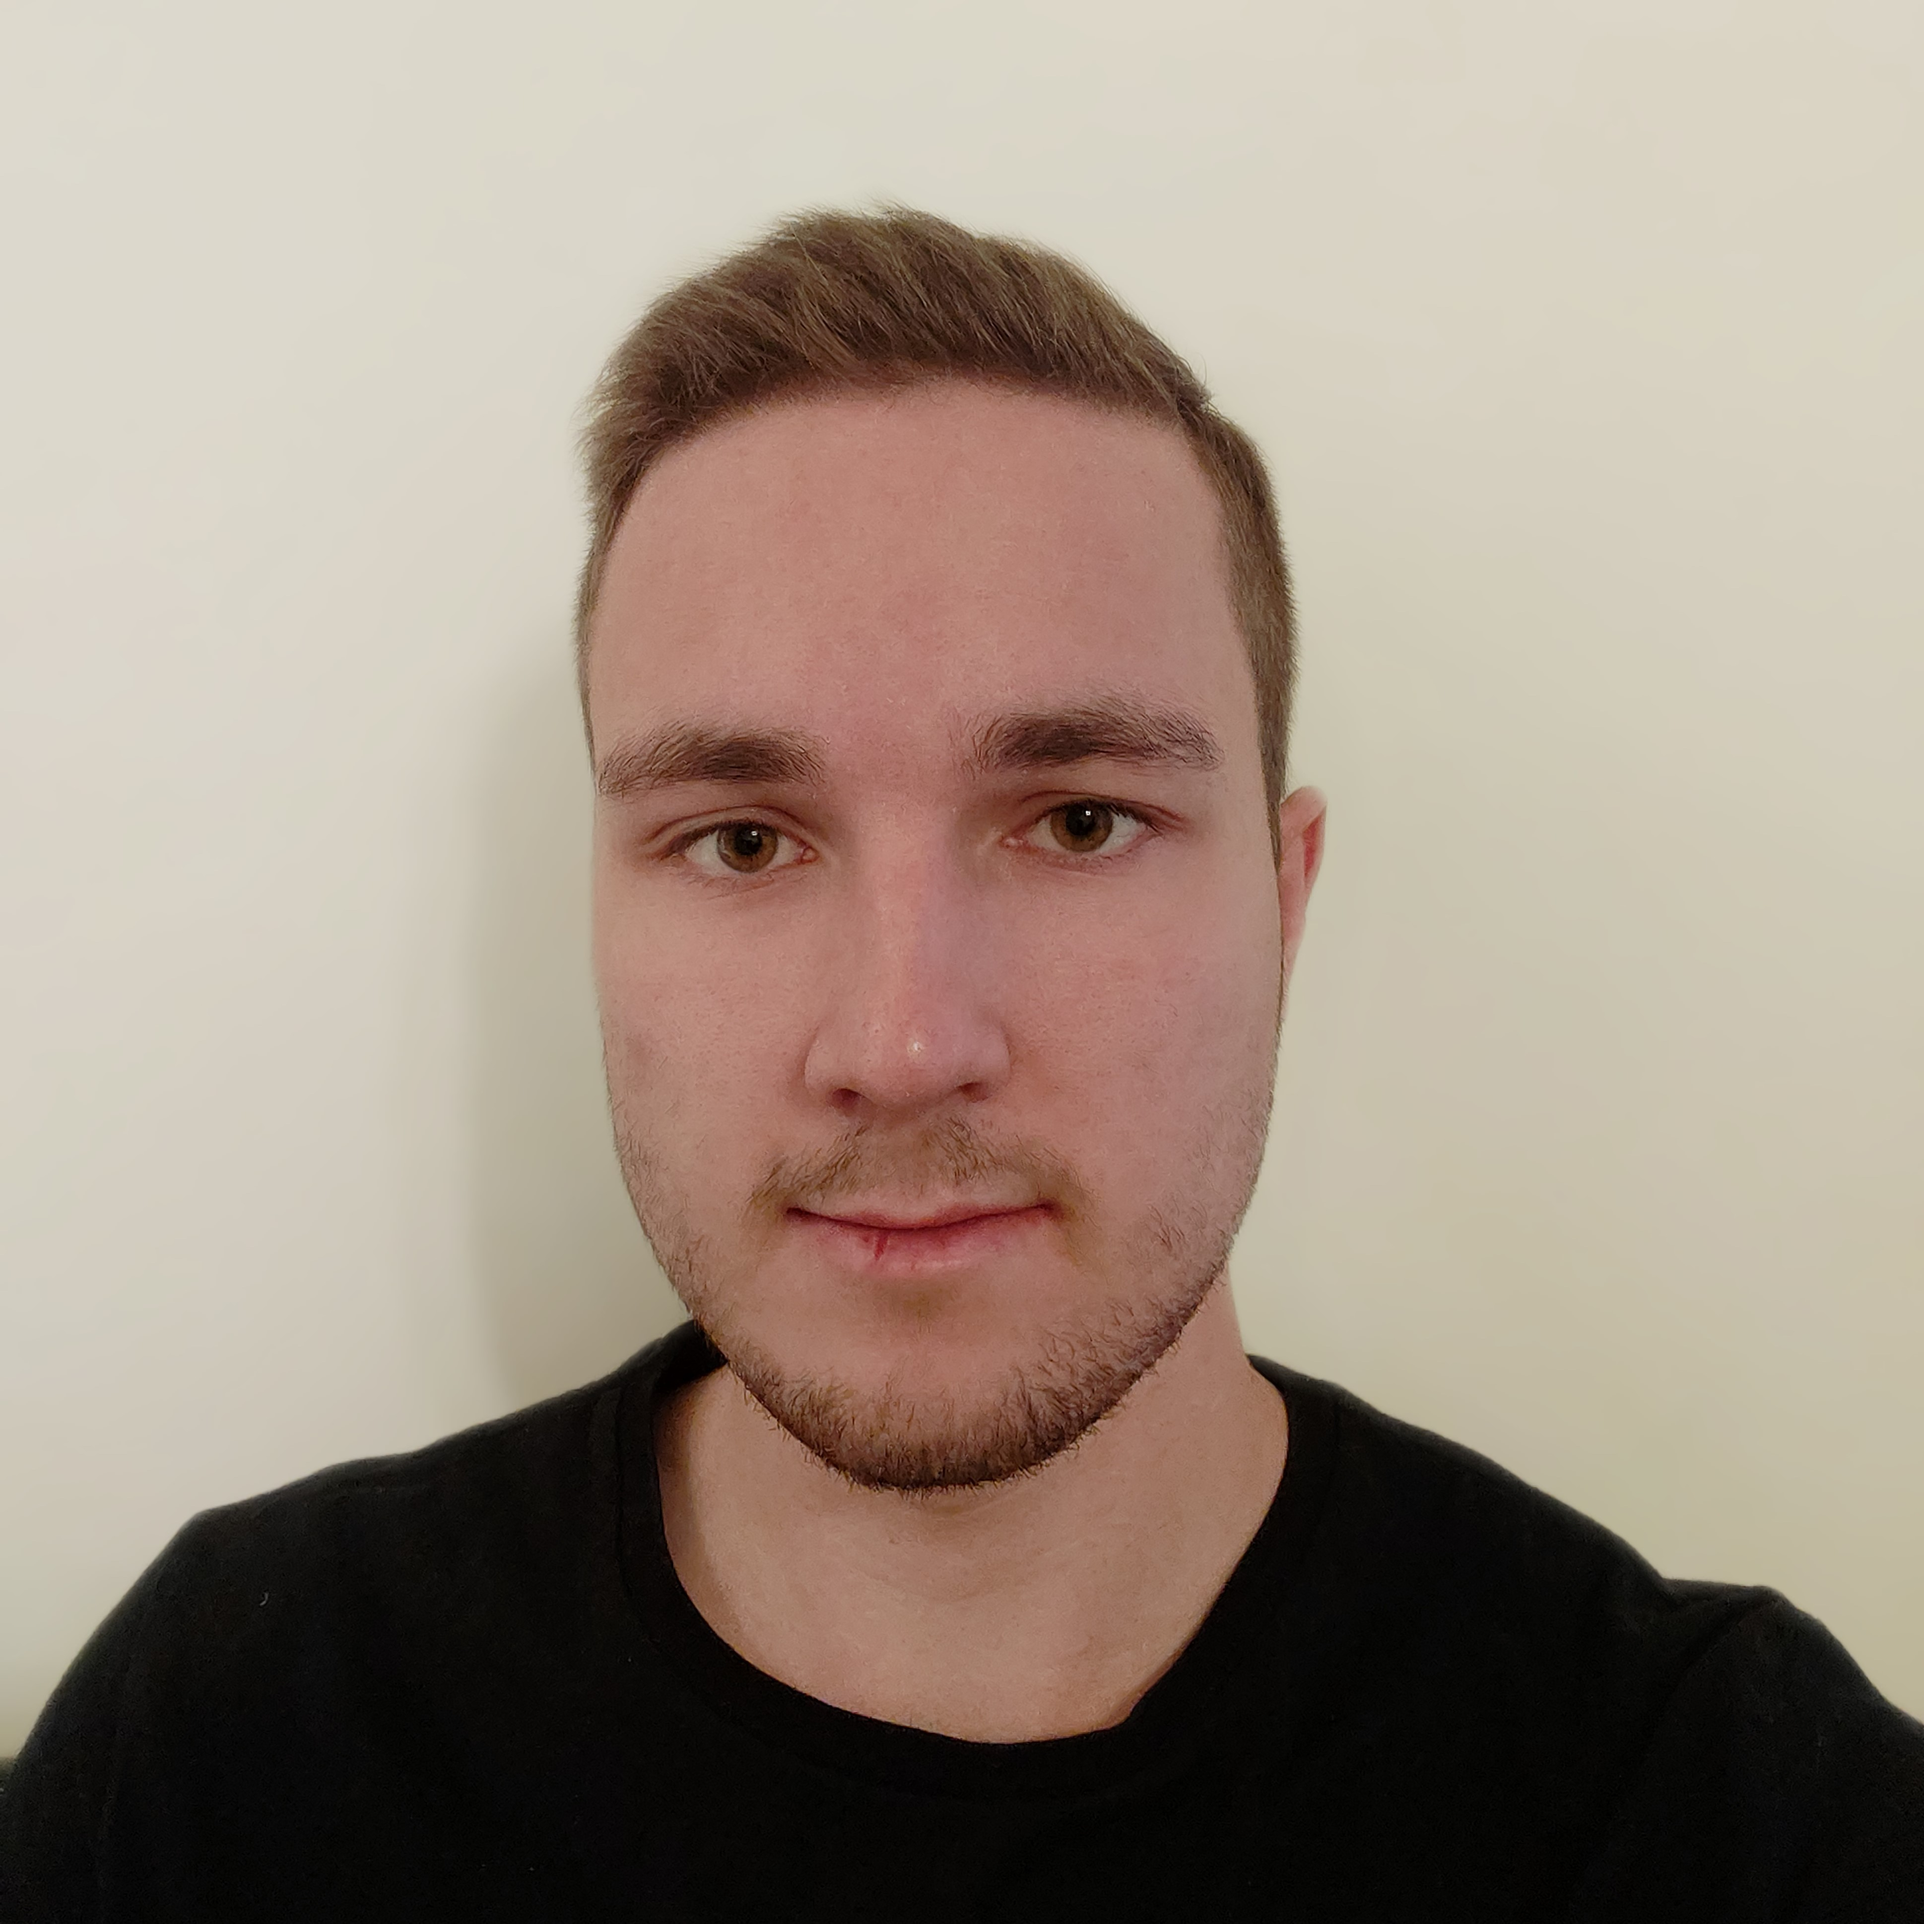
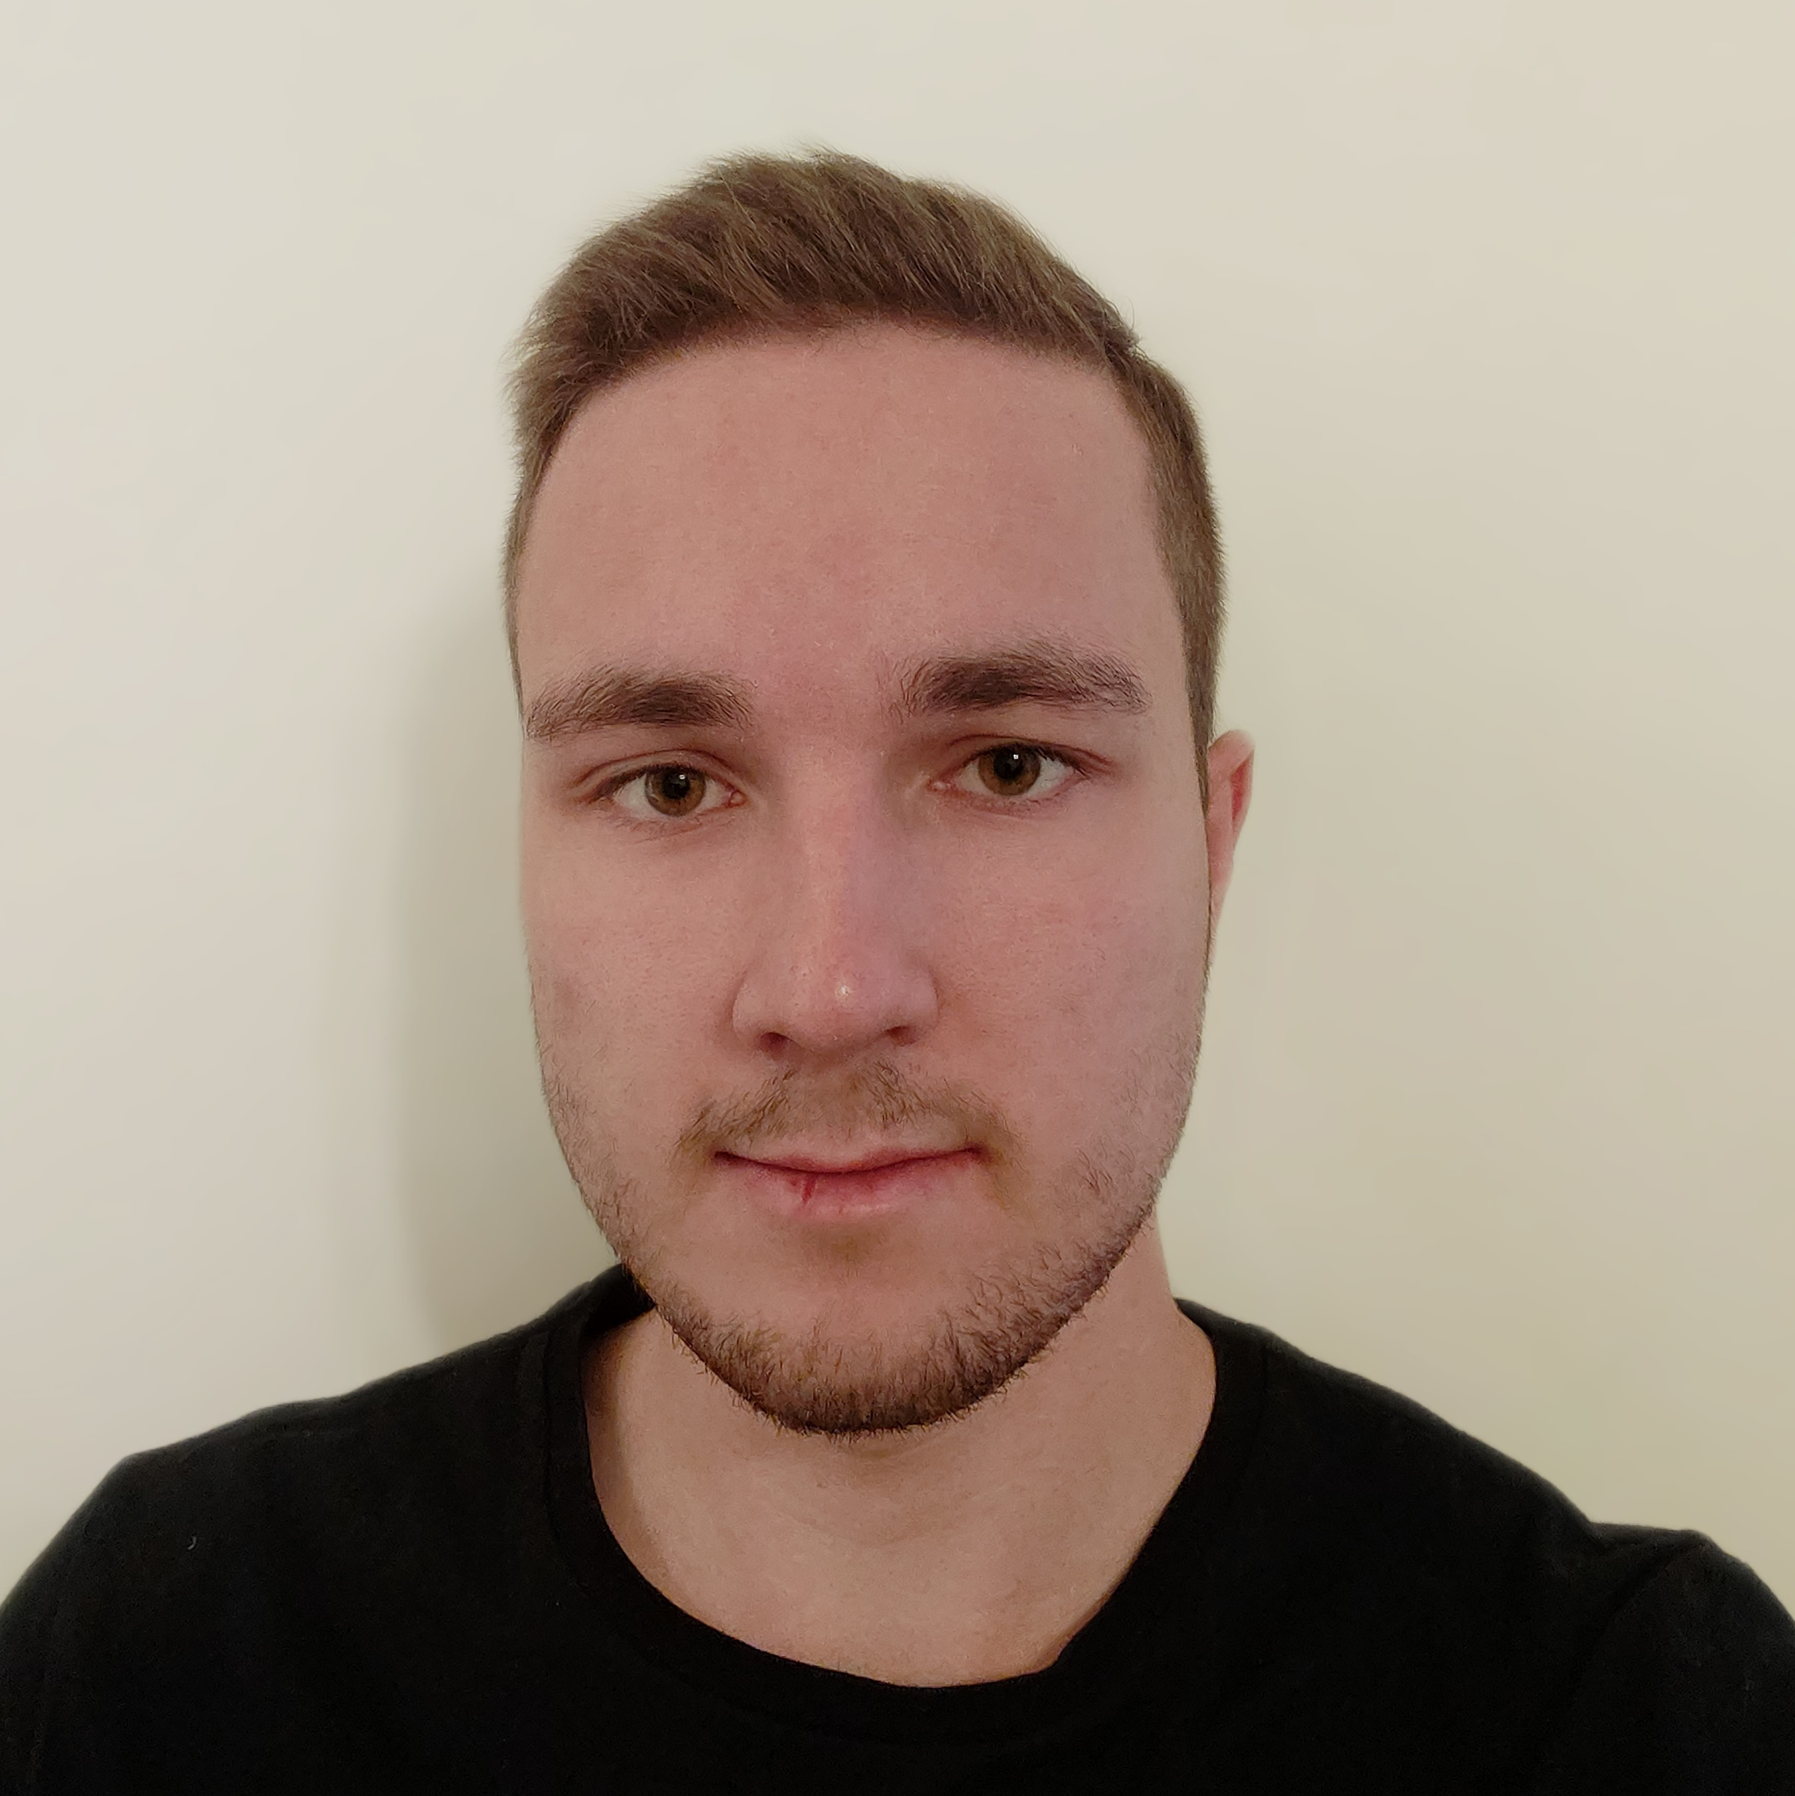
image_and_font_fixes

diff --git a/src/Components/FinnishLeftContainer.js b/src/Components/FinnishLeftContainer.js
@@ -11,7 +11,7 @@ export default function FinnishLeftContainer() {
 
     return (
         <div className={ styles.leftcontainer }>
-            <h1>Matias Koivumaa</h1>
+            <h1 className={ styles.name }>Matias Koivumaa</h1>
             <img className={ styles.image } src="1637757689339.jpg" alt="portrait"></img>
             <div className={ styles.subContainer }>
                 <h2 className={ styles.title }>Yhteystiedot</h2>
@@ -49,11 +49,11 @@ export default function FinnishLeftContainer() {
                 <h2 className={ styles.title }>Kielet</h2>
                 <div className={ styles.languageContainer }>
                     <div className={ styles.languages }>
-                        <Flag code="fi" height="25" />
+                        <Flag code="fi" height="22" />
                         <text>Suomi</text>
                     </div>
                     <div className={ styles.languages }>
-                        <Flag code="gb" height="20" />
+                        <Flag code="gb" height="18" />
                         <text>Englanti</text>
                     </div>
                 </div>

diff --git a/src/Components/EnglishLeftContainer.js b/src/Components/EnglishLeftContainer.js
@@ -11,7 +11,7 @@ export default function EnglishLeftContainer() {
 
     return (
         <div className={ styles.leftcontainer }>
-            <h1>Matias Koivumaa</h1>
+            <h1 className={ styles.name }>Matias Koivumaa</h1>
             <img className={ styles.image } src="1637757689339.jpg" alt="portrait"></img>
             <div className={ styles.subContainer }>
                 <h2 className={ styles.title }>Contact</h2>
@@ -49,11 +49,11 @@ export default function EnglishLeftContainer() {
                 <h2 className={ styles.title }>Languages</h2>
                 <div className={ styles.languageContainer }>
                     <div className={ styles.languages }>
-                        <Flag code="fi" height="25" />
+                        <Flag code="fi" height="22" />
                         <text>Finnish</text>
                     </div>
                     <div className={ styles.languages }>
-                        <Flag code="gb" height="20" />
+                        <Flag code="gb" height="18" />
                         <text>English</text>
                     </div>
                 </div>

diff --git a/src/Components/LeftContainer.module.css b/src/Components/LeftContainer.module.css
@@ -1,6 +1,13 @@
+.name {
+    font-family: sans-serif;
+    font-weight: 600;
+    font-size: 35px;
+    border-bottom: 2px solid rgb(167, 167, 167);
+}
+
 .title {
     border-bottom: 2px solid rgb(167, 167, 167);
-    font-size: 25px;
+    font-size: 22px;
     font-family: 'Franklin Gothic Medium', 'Arial Narrow', Arial, sans-serif;
     color: whitesmoke;
 }
@@ -12,6 +19,7 @@
 }
 
 .leftcontainer {
+    padding-top: 10px;
     padding-left: 5%;
     padding-right: 5%;
     width: 35%;
@@ -25,7 +33,7 @@
 }
 
 .Padding {
-    padding-bottom: 13px;
+    padding-bottom: 8px;
 }
 
 .logoContainer {
@@ -54,7 +62,7 @@
 .languageContainer {
     display: flex;
     flex-direction: column;
-    row-gap: 12px;
+    row-gap: 10px;
 }
 
 .languages {
@@ -66,4 +74,10 @@
     display: flex;
     flex-direction: column;
     row-gap: 5px;
+}
+
+.image {
+    border-radius: 100%;
+    height: 215px;
+    padding-left: 13px;
 }
